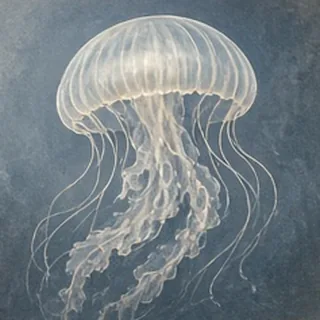
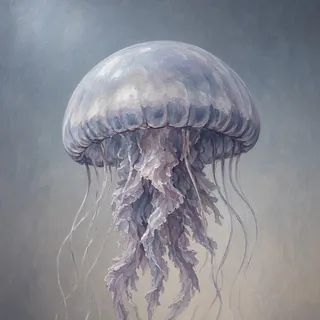
Rare animals 97-144: 24 grid tiles upgraded to full-res, 24 new
48-image zip: full 784px singles for 097-120 replace yesterday's soft
grid slices in place, plus ladybug through plains-zebra new. All
verified. cardart 13/13. 108/788 Rares painted - half the Animal
Kingdom done; 049-084 remains the open gap.

Claude-Session: https://claude.ai/code/session_01DKd3JjxtaJjTgNTDk2CA82

diff --git a/docs/fishing.md b/docs/fishing.md
@@ -501,6 +501,15 @@ scrolling hunt for an equip button. Tests updated to encode the gate (a
 commons-only journal cannot enter; a fresh rare trio clears rings 1-4);
 smoke rewritten for tab-hopping picks, shelf sections, and stack counts.
 
+## Batch 81 — animals 97-144 as full-res singles; grid tiles upgraded
+A 48-image zip covering 097-144: the 24 grid-tile paintings from batch
+80 re-delivered at full 784px (SAME slugs, so a plain cp upgraded them
+in place - the batch-80 softness lasted one deploy), plus 24 new
+(ladybug through plains-zebra), all verified on contact sheets. The
+two-format story resolved itself: grids were a preview, singles are
+the canon delivery. cardart 13/13, 287 files. 108/788 Rares, 108/216
+animals - exactly half the Animal Kingdom. 049-084 still the open gap.
+
 ## Batch 80 — animals 97-120 arrive as contact sheets
 New delivery format: two 4x3 GRID IMAGES instead of a zip, no
 filenames. Worked because the tiles run in exact rare-art-list
